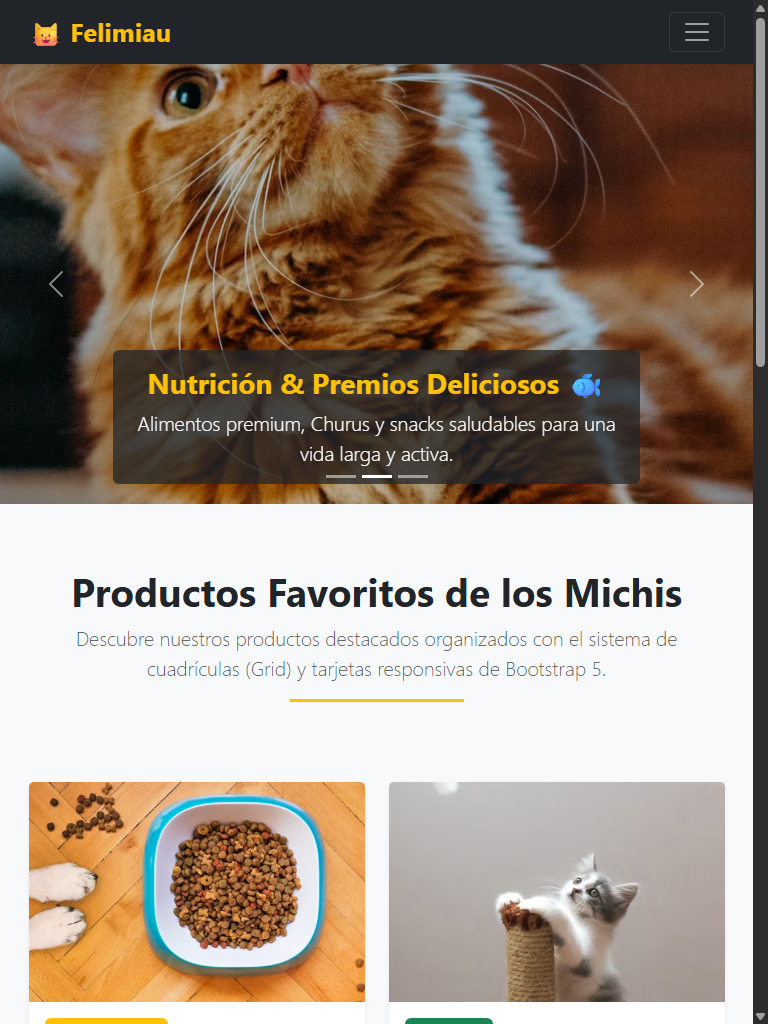
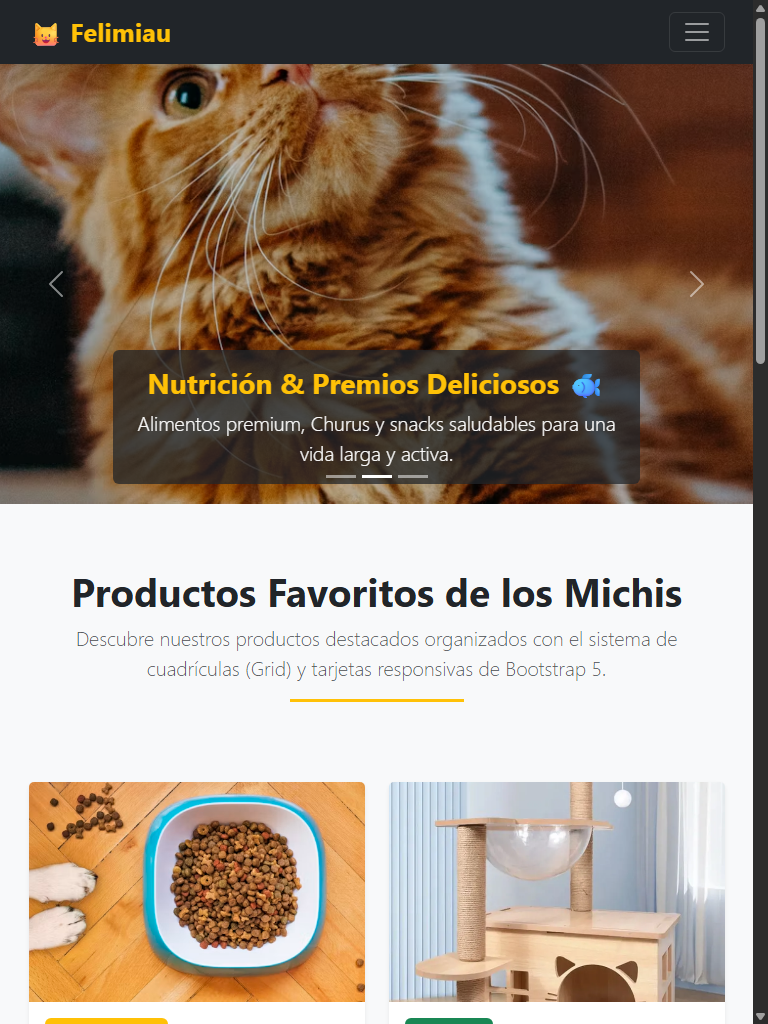
Agregar imagen personalizada rascador.png y actualizar tarjetas

Changed region(s): [[0.5, 0.75, 0.9688, 1.0]]

diff --git a/Carolina_Delgado_PFY2201_Bootstrap_Semana4.html b/Carolina_Delgado_PFY2201_Bootstrap_Semana4.html
@@ -186,12 +186,12 @@
         <!-- Tarjeta 2: Rascador Castillo -->
         <div class="col">
           <div class="card h-100 shadow-sm border-0">
-            <img src="https://images.unsplash.com/photo-1545249390-6bdfa286032f?auto=format&fit=crop&w=600&h=350&q=80" class="card-img-top" alt="Torre y rascador para gatos con plataformas">
+            <img src="rascador.png" class="card-img-top" alt="Rascador Torre Castillo 3 Niveles en madera natural">
             <div class="card-body d-flex flex-column">
               <span class="badge bg-success align-self-start mb-2">Más Vendido</span>
               <h5 class="card-title fw-bold text-dark">Rascador Torre Castillo 3 Niveles</h5>
               <p class="card-text text-muted flex-grow-1">
-                Estructura reforzada con postes de sisal natural, cueva de descanso, hamaca suave y pelotitas con cascabel.
+                Estructura de madera natural reforzada con postes de sisal, cueva de descanso con forma de gato, cápsula panorámica y pompón colgante.
               </p>
               <div class="d-flex justify-content-between align-items-center mt-3 pt-2 border-top">
                 <span class="h5 text-primary fw-bold mb-0">$39.990</span>

diff --git a/index.html b/index.html
@@ -186,12 +186,12 @@
         <!-- Tarjeta 2: Rascador Castillo -->
         <div class="col">
           <div class="card h-100 shadow-sm border-0">
-            <img src="https://images.unsplash.com/photo-1545249390-6bdfa286032f?auto=format&fit=crop&w=600&h=350&q=80" class="card-img-top" alt="Torre y rascador para gatos con plataformas">
+            <img src="rascador.png" class="card-img-top" alt="Rascador Torre Castillo 3 Niveles en madera natural">
             <div class="card-body d-flex flex-column">
               <span class="badge bg-success align-self-start mb-2">Más Vendido</span>
               <h5 class="card-title fw-bold text-dark">Rascador Torre Castillo 3 Niveles</h5>
               <p class="card-text text-muted flex-grow-1">
-                Estructura reforzada con postes de sisal natural, cueva de descanso, hamaca suave y pelotitas con cascabel.
+                Estructura de madera natural reforzada con postes de sisal, cueva de descanso con forma de gato, cápsula panorámica y pompón colgante.
               </p>
               <div class="d-flex justify-content-between align-items-center mt-3 pt-2 border-top">
                 <span class="h5 text-primary fw-bold mb-0">$39.990</span>
